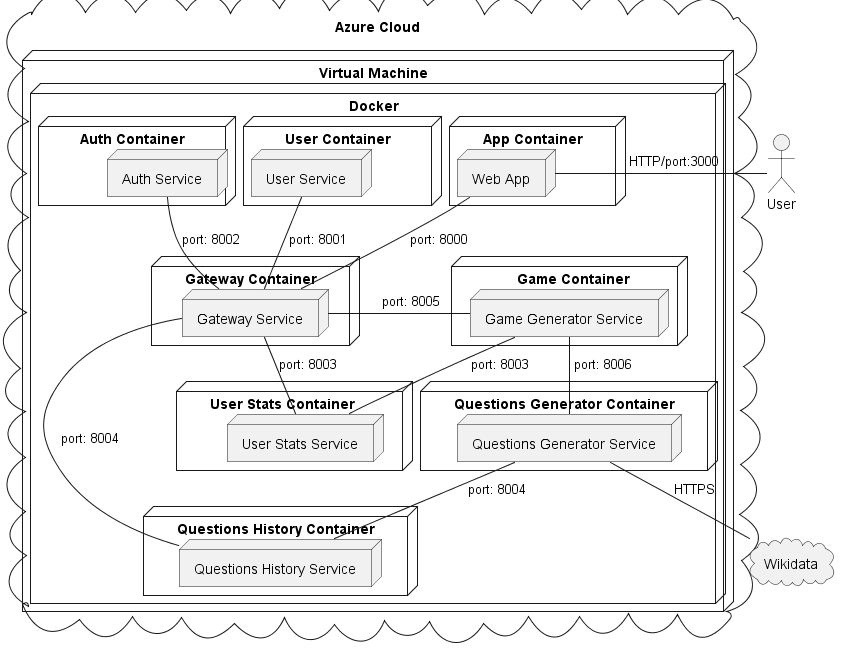
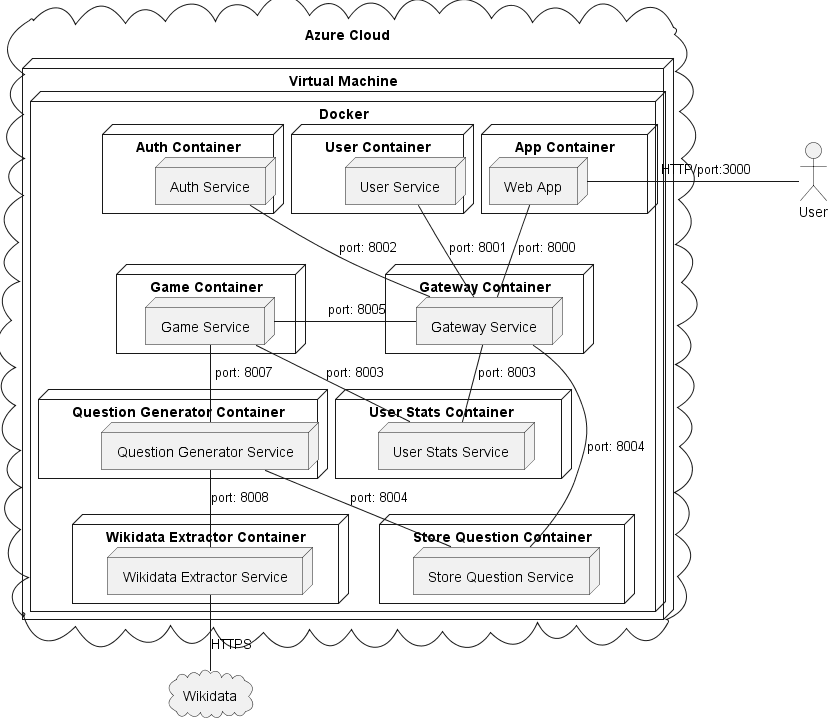
Updates

diff --git a/index.html b/index.html
@@ -972,7 +972,7 @@ body.book #toc,body.book #preamble,body.book h1.sect0,body.book .sect1>h2{page-b
 <h3 id="_level_2">5.2. Level 2</h3>
 <div class="imageblock">
 <div class="content">
-<img src="./images/Level%202%20Diagram.png" alt="Level 2 Diagram" width="867" height="313">
+<img src="./images/Level%202%20Diagram.png" alt="Level 2 Diagram" width="860" height="313">
 </div>
 </div>
 <div class="sect3">
@@ -1031,7 +1031,7 @@ body.book #toc,body.book #preamble,body.book h1.sect0,body.book .sect1>h2{page-b
 <h3 id="_level_3">5.3. Level 3</h3>
 <div class="imageblock">
 <div class="content">
-<img src="./images/Level%203%20Diagram.png" alt="Level 3 Diagram" width="795" height="894">
+<img src="./images/Level%203%20Diagram.png" alt="Level 3 Diagram" width="839" height="860">
 </div>
 </div>
 <div class="sect3">
@@ -1140,7 +1140,7 @@ body.book #toc,body.book #preamble,body.book h1.sect0,body.book .sect1>h2{page-b
 <h3 id="_infrastructure_level_1">7.1. Infrastructure Level 1</h3>
 <div class="imageblock">
 <div class="content">
-<img src="./images/Deployment%20View.png" alt="Deployment View" width="842" height="655">
+<img src="./images/Deployment%20View.png" alt="Deployment View" width="833" height="725">
 </div>
 </div>
 <div class="paragraph">
@@ -1150,15 +1150,15 @@ body.book #toc,body.book #preamble,body.book h1.sect0,body.book .sect1>h2{page-b
 <dl>
 <dt class="hdlist1">Motivation</dt>
 <dd>
-<p>Our goal is to run the application with Docker in a Azure VM.
+<p>Despite our initial goal being to run the application with Docker in an Azure VM, as we were running out of Azure Credits, we decided to switch to an Oracle VM.
 However, during the production stage, each contributor will deploy the project locally.
-Final product will be deployed in <a href="http://wiq.sytes.net/" class="bare">http://wiq.sytes.net/</a> (if that does not work, try <a href="http://20.77.37.219:3000/" class="bare">http://20.77.37.219:3000/</a>).</p>
+Final product will be deployed in <a href="http://wiq.sytes.net/" class="bare">http://wiq.sytes.net/</a> (if that does not work, try <a href="http://158.179.212.42:3000/" class="bare">http://158.179.212.42:3000/</a>).</p>
 </dd>
 <dt class="hdlist1">Quality and/or Performance Features</dt>
 <dd>
-<p>As for performance features, our current Azure MV has 2 GiB RAM and 1vCPU.
-If that was not enough, we can always switch to an Oracle VM, which has better resources for free.
-Each microservice has its own container as well as its own database in case of needing one.</p>
+<p>Previously, we had an Azure VM with 2 GiB RAM and 1vCPU. When we decided to change to the Oracle VM, we also improve our resources, as it was free.
+Finally, our Oracle VM has 24 GiB RAM and 4vCPU.
+Each microservice has its own container. There are also two databases, one for the Question Generator and Wikidata Extractor services, and another one for the rest of the containers which may need it.</p>
 </dd>
 </dl>
 </div>
@@ -1366,7 +1366,7 @@ occurs.</p>
 <div id="footer">
 <div id="footer-text">
 Version 8.2 EN<br>
-Last updated 2024-04-06 17:13:46 +0200
+Last updated 2024-04-11 12:53:26 +0200
 </div>
 </div>
 </body>
